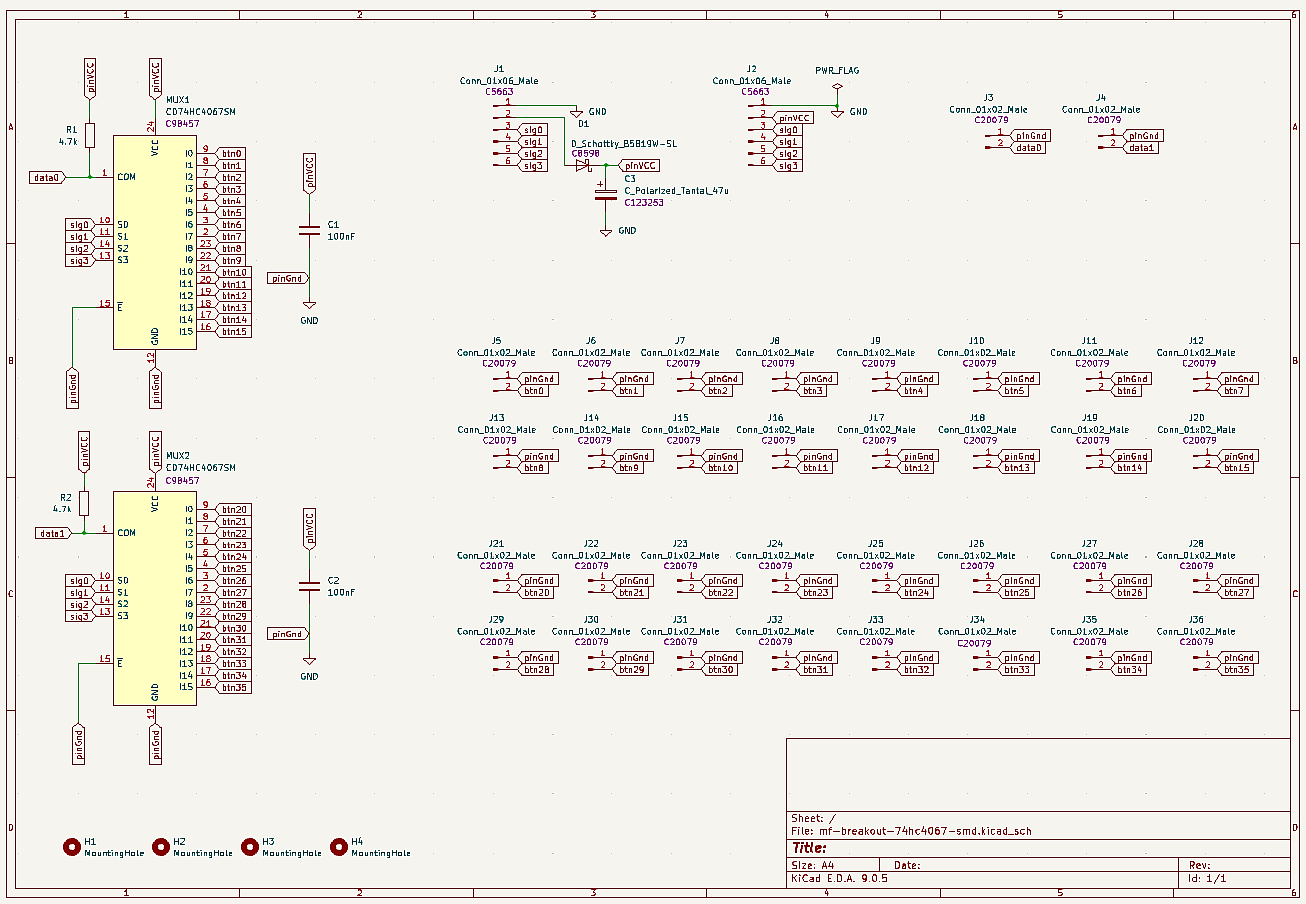
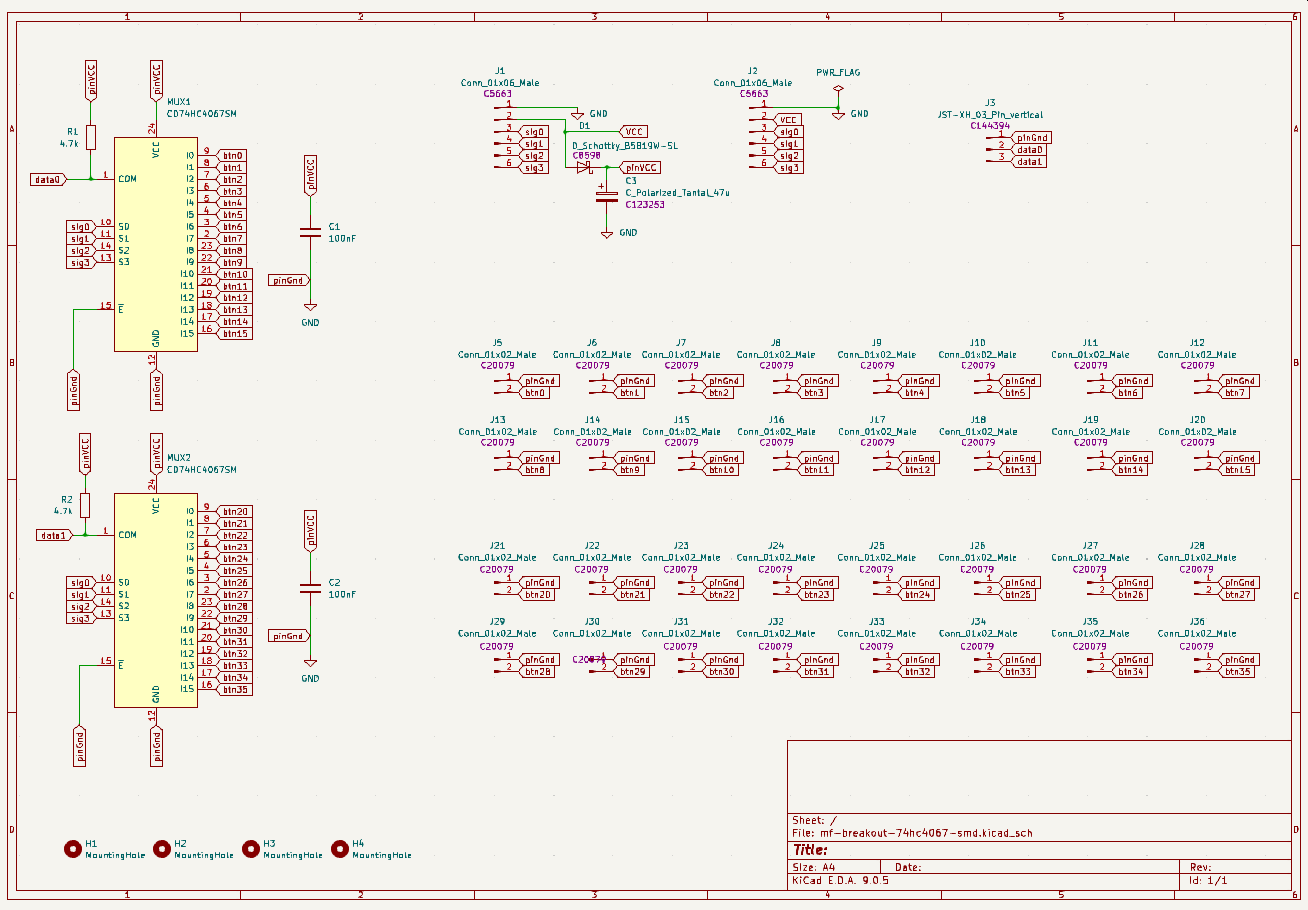
updated readme acc. 3pin data connector

diff --git a/breakout-multiplexer/README.md b/breakout-multiplexer/README.md
@@ -1,9 +1,9 @@
 # MobiFlight Multiplexer Breakout Board
 The MobiFlight Multiplexer Breakout Board is a breakout board for easier use of the 74HC4067 multiplexer. It is designed to work best together with the [MobiFlight Prototyping Board](https://shop.mobiflight.com/product/prototyping-board-v2).
 
-On the top side, The board uses XH JST connectors for the individual inputs. On the back, you can add up to two 74HC4067 modules (https://shop.mobiflight.com/product/multiplexer).
+On the top side, The board uses XH JST connectors for the individual inputs.
 
-On the bottom side, you plug in the 74HC4067 modules. Version 1.2 now shows information about the orientation and all important pins are labeled.
+From Version 1.2 now shows information about the orientation and all important pins are labeled.
 You can daisy chain the boards.
 
 For more information on how to configure the board with MobiFlight, check out the [MobiFlight Connector documentation](https://github.com/MobiFlight/MobiFlight-Connector/wiki/Input-and-Output-devices#input-multiplexer).
@@ -21,17 +21,12 @@ Connection coming from your Mobiflight board, or another MobiFlight Multiplexer 
 * Pin5 - Channel 3
 * Pin6 - Channel 4
 
-### Data 0
+### Data
 Connection coming from your Mobiflight board.
 
 * Pin1 - GND
 * Pin2 - Signal pin (for the first 74HC4067)
-
-### Data 1
-Connection coming from your Mobiflight board.
-
-* Pin1 - GND
-* Pin2 - Signal pin (for the second 74HC4067)
+* Pin3 - Signal pin (for the second 74HC4067)
 
 ### Multiplexer OUT
 Connection to daisy chain another MobiFlight Multiplexer Breakout Board.
@@ -82,7 +77,7 @@ The multiplexer prototyping board is designed to work best together with the [Mo
 The prototyping board comes with the required cables to make connection super easy.
 
 * **Connect the 6-pin wire** from the breakout board to the MobiFlight Prototyping Board's 6-pin connector labeled **Stepper 2 / Multiplexer**
-* **Connect the 2-pin wires** to the MobiFlight Prototyping Board's 2-pin connectors **Btn1** and **Btn2** respectively
+* **Connect the 3-pin wires** to the MobiFlight Prototyping Board's 3-pin connectors **Switch 6** respectively
 * **Upload multiplexer board configuration** to the MobiFlight Prototyping Board - [Download multiplexer-config (mfmc)](https://raw.githubusercontent.com/MobiFlight/mobiflight-pcbs/refs/heads/main/prototyping-board/prototyping-board.multiplexer.mfmc)
 
 All pins on the multiplexer will now work correctly!
@@ -92,7 +87,7 @@ If you are using any of the supported microcontrollers, do the following:
 
 #### Wiring
 * Connect the first two pins on the **Multiplexer In** connector to **GND**, **5V** and the four remaining pins to free output-capable pins. For an Arduino Mega that could be, eg. D2, D3 D4 and D5. 
-* Connect two input-capable pins to Data0 and Data1 connectors - first pin is **GND** and is not necessarily required, second pin is data pins. You can verify by looking on the backside of the circuit board where the pins are labeled. 
+* Connect the input-capable pins to Data connectors - first pin is **GND** and is not necessarily required, second pin is data 0 and third pin is data 1 pins. You can verify by looking on the backside of the circuit board where the pins are labeled. 
 
 ![image](https://github.com/MobiFlight/mobiflight-pcbs/assets/2587818/d38acea9-0853-4c9f-adc7-96773ab6a843)
 
